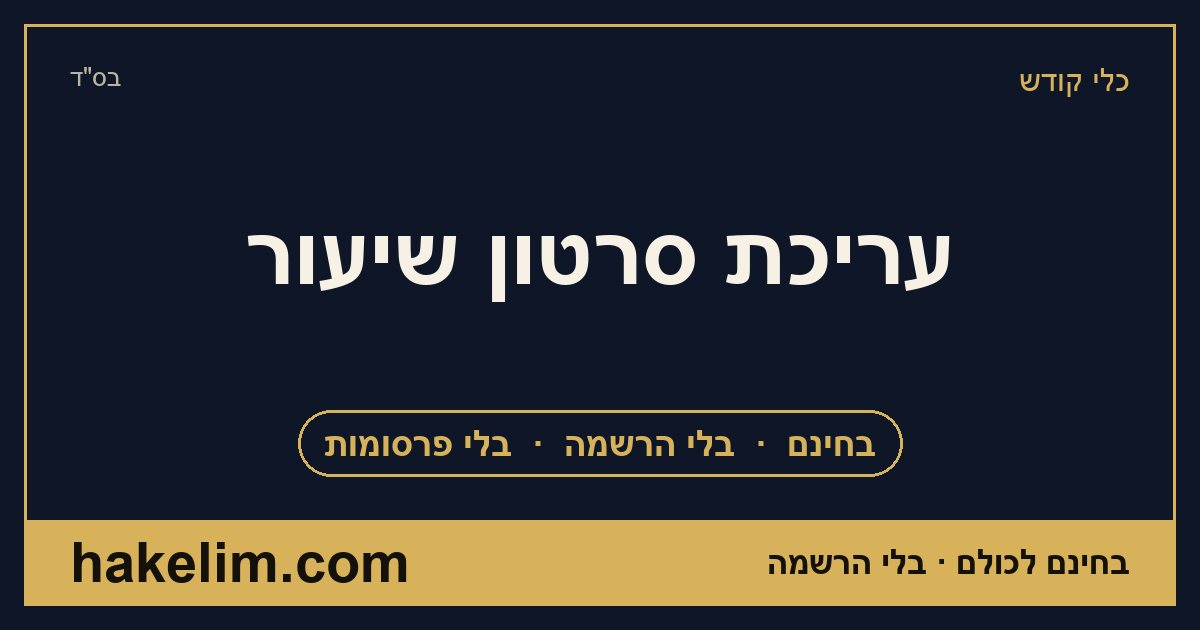
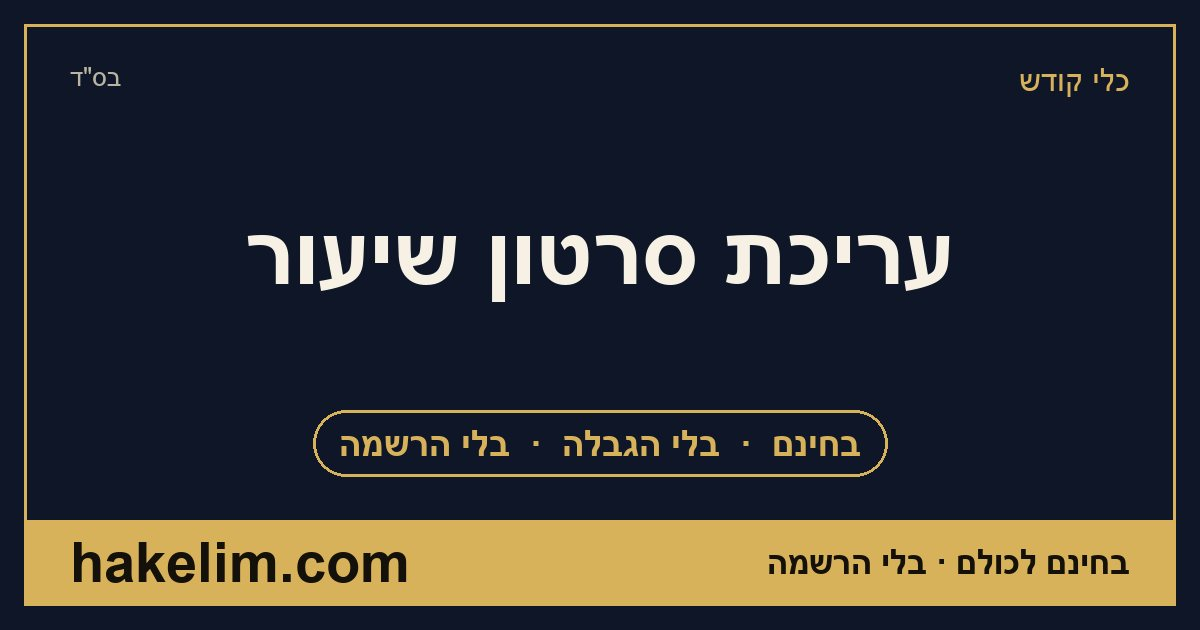
תמלול בלי הגבלה: לחיצה אחת "להמשיך לתמלל" אחרי 60 דקות, וכתיבה לגילעד באהבה
- tamlul + video-shiur: הנוסח "בחינם ובלי הגבלה" במקום "60 דקות בחודש"; בקופסה: להמשיך / ווטסאפ / שותף
- tamlul.js: אחרי הלחיצה ההקלטה שנעצרה ממשיכה מיד
- יצאו מ-CHESED_PARTNER, ולכן כרטיס השיתוף והתיאור מקבלים "בלי הגבלה"

Changed region(s): [[0.4625, 0.6333, 0.7708, 0.754], [0.2467, 0.6333, 0.4317, 0.754]]

diff --git a/kelim/tamlul/index.html b/kelim/tamlul/index.html
@@ -4,14 +4,14 @@
 <meta charset="utf-8"><script>(function(){var N="https://hakelim.com",O="gilad-rachamim.github.io",L=location,k;function go(){try{var d={},n=0,ks=[],i,v,e;for(i=0;i<localStorage.length;i++)ks.push(localStorage.key(i));ks.sort(function(a,b){return localStorage.getItem(a).length-localStorage.getItem(b).length});for(i=0;i<ks.length;i++){k=ks[i];v=localStorage.getItem(k);e=encodeURIComponent(k).length+encodeURIComponent(v).length+12;if(n+e>1400000)continue;d[k]=v;n+=e}L.replace(N+L.pathname+L.search+(ks.length?"#__mig="+encodeURIComponent(JSON.stringify({d:d,h:L.hash})):L.hash))}catch(x){L.replace(N+L.pathname+L.search+L.hash)}}try{if(L.hostname===O){var im=new Image(),t=setTimeout(function(){im.onload=null},5000);im.onload=function(){clearTimeout(t);go()};im.src=N+"/assets/mig-ready.png?p="+Date.now()}else if(L.hash.indexOf("#__mig=")===0){var o=JSON.parse(decodeURIComponent(L.hash.slice(7)));for(k in o.d)if(localStorage.getItem(k)===null)localStorage.setItem(k,o.d[k]);history.replaceState(null,"",L.pathname+L.search+(o.h||""))}}catch(x){}})();</script>
 <meta name="viewport" content="width=device-width, initial-scale=1">
 <title>תמלול בעברית בחינם: הקלטה, הודעה קולית או סרטון לטקסט, מהטלפון | הכלים של גילעד רחמים</title>
-<meta name="description" content="תמלול אוטומטי בעברית, בחינם: מעלים הקלטה, הודעה קולית מהווטסאפ או סרטון, או מקליטים ישר בדף, ומקבלים טקסט להעתקה, לוורד, ל-PDF או לווטסאפ. 60 דקות בחודש בחינם. לנכי צה״ל ללא הגבלה.">
+<meta name="description" content="תמלול אוטומטי בעברית, בחינם: מעלים הקלטה, הודעה קולית מהווטסאפ או סרטון, או מקליטים ישר בדף, ומקבלים טקסט להעתקה, לוורד, ל-PDF או לווטסאפ. בחינם ובלי הגבלה, לכל אחד.">
 <link rel="canonical" href="https://hakelim.com/kelim/tamlul/">
 
 <meta property="og:type" content="website">
 <meta property="og:locale" content="he_IL">
 <meta property="og:site_name" content="מיזם הכלים של גילעד רחמים">
 <meta property="og:title" content="תמלול בעברית מהטלפון, בחינם">
-<meta property="og:description" content="בחינם ובלי הרשמה. תמלול אוטומטי בעברית, בחינם: מעלים הקלטה, הודעה קולית מהווטסאפ או סרטון, או מקליטים ישר בדף, ומקבלים טקסט להעתקה, לוורד, ל-PDF או לווטסאפ. 60 דקות בחודש בחינם. לנכי צה״ל ללא הגבלה.">
+<meta property="og:description" content="בחינם, בלי הגבלה ובלי הרשמה. תמלול אוטומטי בעברית, בחינם: מעלים הקלטה, הודעה קולית מהווטסאפ או סרטון, או מקליטים ישר בדף, ומקבלים טקסט להעתקה, לוורד, ל-PDF או לווטסאפ. בחינם ובלי הגבלה, לכל אחד.">
 <meta property="og:image" content="https://hakelim.com/assets/og/kelim-tamlul.jpg?v=4">
 <meta property="og:url" content="https://hakelim.com/kelim/tamlul/">
 <meta name="twitter:card" content="summary_large_image">
@@ -26,7 +26,7 @@
 <script>window.dataLayer=window.dataLayer||[];function gtag(){dataLayer.push(arguments);}gtag('js',new Date());gtag('config','G-4QR4583VST');</script>
 <script src="/assets/track.js?v=963b507e" defer></script>
 <script src="/assets/kishur.js?v=e3484271" defer></script>
-<style>.tl-pick{display:grid;gap:.7rem}.tl-pick label.up{display:block;text-align:center;padding:1.3rem 1rem;border:2px dashed var(--gold-soft);border-radius:16px;cursor:pointer;color:var(--cream);font-size:1.15rem}.tl-pick label.up small{display:block;color:var(--muted);font-size:.95rem;margin-top:.3rem}.tl-pick input[type=file]{position:absolute;width:1px;height:1px;opacity:0}#tl-rec.on{background:#b4443c;border-color:#b4443c;color:#fff}#tl-status{margin-top:1rem;padding:.9rem 1rem;border-radius:12px;background:rgba(255,255,255,.04);border:1px solid var(--line);color:var(--cream)}.spin{display:inline-block;width:1rem;height:1rem;border:2px solid var(--gold);border-top-color:transparent;border-radius:50%;animation:sp 1s linear infinite;vertical-align:-2px}@keyframes sp{to{transform:rotate(360deg)}}#tl-text{margin-top:.8rem;max-height:60vh;overflow:auto;padding:1rem;border-radius:12px;background:rgba(0,0,0,.22);border:1px solid var(--line);font-size:1.08rem;line-height:1.8;color:var(--cream)}#tl-text p+p{margin-top:.8rem}.tl-acts{display:flex;flex-wrap:wrap;gap:.5rem;margin-top:.9rem}#tl-quota{color:var(--body);font-size:1rem;text-align:center;margin-top:.8rem}#tl-limit{margin-top:1rem}@media print{body *{visibility:hidden}#tl-print,#tl-print *{visibility:visible}#tl-print{position:absolute;inset:0;color:#000}#tl-text{max-height:none;overflow:visible;background:none;border:0;color:#000}.tl-acts,.tl-stamps-row{display:none}}</style><link rel="stylesheet" href="/assets/seo-txt.css?v=821664ee"><script type="application/ld+json">{"@context": "https://schema.org", "@type": "FAQPage", "mainEntity": [{"@type": "Question", "name": "התמלול בחינם?", "acceptedAnswer": {"@type": "Answer", "text": "כן. כל אחד מקבל 60 דקות תמלול בחודש בחינם. נכי צה\"ל ומי שצריך את זה בגלל פגיעה מקבלים ללא הגבלה."}}, {"@type": "Question", "name": "איך מתמללים הודעה קולית מהווטסאפ?", "acceptedAnswer": {"@type": "Answer", "text": "לוחצים לחיצה ארוכה על ההודעה בווטסאפ, בוחרים שיתוף ושומרים לקבצים. אחר כך בוחרים את הקובץ בדף התמלול."}}, {"@type": "Question", "name": "אילו שפות אפשר לתמלל?", "acceptedAnswer": {"@type": "Answer", "text": "עברית, אנגלית, ערבית, רוסית וצרפתית. אפשר גם לתת לכלי לזהות את השפה לבד."}}, {"@type": "Question", "name": "ההקלטה שלי נשמרת אצלכם?", "acceptedAnswer": {"@type": "Answer", "text": "לא. הקובץ עובר לשרת התמלול רק כדי להפוך לטקסט, ולא נשמר. הטקסט נשאר רק בטלפון שלכם."}}]}</script><script type="application/ld+json">{"@context": "https://schema.org", "@type": "BreadcrumbList", "itemListElement": [{"@type": "ListItem", "position": 1, "name": "הכלים של גילעד רחמים", "item": "https://hakelim.com/kelim/"}, {"@type": "ListItem", "position": 2, "name": "תמלול", "item": "https://hakelim.com/kelim/tamlul/"}]}</script><script type="application/ld+json">{"@context": "https://schema.org", "@type": "WebApplication", "name": "תמלול בעברית, מהטלפון", "description": "תמלול אוטומטי בעברית, בחינם: מעלים הקלטה, הודעה קולית מהווטסאפ או סרטון, או מקליטים ישר בדף, ומקבלים טקסט להעתקה, לוורד, ל-PDF או לווטסאפ. 60 דקות בחודש בחינם. לנכי צה״ל ללא הגבלה.", "url": "https://hakelim.com/kelim/tamlul/", "inLanguage": "he", "applicationCategory": "UtilitiesApplication", "operatingSystem": "Any", "browserRequirements": "דפדפן רגיל בטלפון או במחשב, בלי התקנה.", "isAccessibleForFree": true, "offers": {"@type": "Offer", "price": "0", "priceCurrency": "ILS"}, "author": {"@type": "Person", "name": "גילעד רחמים אביעד", "url": "https://hakelim.com/kelim/#mi"}, "publisher": {"@type": "Person", "name": "גילעד רחמים אביעד", "url": "https://hakelim.com/kelim/#mi"}, "isPartOf": {"@type": "WebSite", "name": "הכלים של גילעד רחמים", "url": "https://hakelim.com/kelim/"}}</script>
+<style>.tl-pick{display:grid;gap:.7rem}.tl-pick label.up{display:block;text-align:center;padding:1.3rem 1rem;border:2px dashed var(--gold-soft);border-radius:16px;cursor:pointer;color:var(--cream);font-size:1.15rem}.tl-pick label.up small{display:block;color:var(--muted);font-size:.95rem;margin-top:.3rem}.tl-pick input[type=file]{position:absolute;width:1px;height:1px;opacity:0}#tl-rec.on{background:#b4443c;border-color:#b4443c;color:#fff}#tl-status{margin-top:1rem;padding:.9rem 1rem;border-radius:12px;background:rgba(255,255,255,.04);border:1px solid var(--line);color:var(--cream)}.spin{display:inline-block;width:1rem;height:1rem;border:2px solid var(--gold);border-top-color:transparent;border-radius:50%;animation:sp 1s linear infinite;vertical-align:-2px}@keyframes sp{to{transform:rotate(360deg)}}#tl-text{margin-top:.8rem;max-height:60vh;overflow:auto;padding:1rem;border-radius:12px;background:rgba(0,0,0,.22);border:1px solid var(--line);font-size:1.08rem;line-height:1.8;color:var(--cream)}#tl-text p+p{margin-top:.8rem}.tl-acts{display:flex;flex-wrap:wrap;gap:.5rem;margin-top:.9rem}#tl-quota{color:var(--body);font-size:1rem;text-align:center;margin-top:.8rem}#tl-limit{margin-top:1rem}@media print{body *{visibility:hidden}#tl-print,#tl-print *{visibility:visible}#tl-print{position:absolute;inset:0;color:#000}#tl-text{max-height:none;overflow:visible;background:none;border:0;color:#000}.tl-acts,.tl-stamps-row{display:none}}</style><link rel="stylesheet" href="/assets/seo-txt.css?v=821664ee"><script type="application/ld+json">{"@context": "https://schema.org", "@type": "FAQPage", "mainEntity": [{"@type": "Question", "name": "התמלול בחינם?", "acceptedAnswer": {"@type": "Answer", "text": "כן. כל אחד מקבל 60 דקות תמלול בחודש בחינם. נכי צה\"ל ומי שצריך את זה בגלל פגיעה מקבלים ללא הגבלה."}}, {"@type": "Question", "name": "איך מתמללים הודעה קולית מהווטסאפ?", "acceptedAnswer": {"@type": "Answer", "text": "לוחצים לחיצה ארוכה על ההודעה בווטסאפ, בוחרים שיתוף ושומרים לקבצים. אחר כך בוחרים את הקובץ בדף התמלול."}}, {"@type": "Question", "name": "אילו שפות אפשר לתמלל?", "acceptedAnswer": {"@type": "Answer", "text": "עברית, אנגלית, ערבית, רוסית וצרפתית. אפשר גם לתת לכלי לזהות את השפה לבד."}}, {"@type": "Question", "name": "ההקלטה שלי נשמרת אצלכם?", "acceptedAnswer": {"@type": "Answer", "text": "לא. הקובץ עובר לשרת התמלול רק כדי להפוך לטקסט, ולא נשמר. הטקסט נשאר רק בטלפון שלכם."}}]}</script><script type="application/ld+json">{"@context": "https://schema.org", "@type": "BreadcrumbList", "itemListElement": [{"@type": "ListItem", "position": 1, "name": "הכלים של גילעד רחמים", "item": "https://hakelim.com/kelim/"}, {"@type": "ListItem", "position": 2, "name": "תמלול", "item": "https://hakelim.com/kelim/tamlul/"}]}</script><script type="application/ld+json">{"@context": "https://schema.org", "@type": "WebApplication", "name": "תמלול בעברית, מהטלפון", "description": "תמלול אוטומטי בעברית, בחינם: מעלים הקלטה, הודעה קולית מהווטסאפ או סרטון, או מקליטים ישר בדף, ומקבלים טקסט להעתקה, לוורד, ל-PDF או לווטסאפ. בחינם ובלי הגבלה, לכל אחד.", "url": "https://hakelim.com/kelim/tamlul/", "inLanguage": "he", "applicationCategory": "UtilitiesApplication", "operatingSystem": "Any", "browserRequirements": "דפדפן רגיל בטלפון או במחשב, בלי התקנה.", "isAccessibleForFree": true, "offers": {"@type": "Offer", "price": "0", "priceCurrency": "ILS"}, "author": {"@type": "Person", "name": "גילעד רחמים אביעד", "url": "https://hakelim.com/kelim/#mi"}, "publisher": {"@type": "Person", "name": "גילעד רחמים אביעד", "url": "https://hakelim.com/kelim/#mi"}, "isPartOf": {"@type": "WebSite", "name": "הכלים של גילעד רחמים", "url": "https://hakelim.com/kelim/"}}</script>
 </head>
 <body class="site-kelim " data-site="kelim" data-tool="tamlul" data-home="/kelim/">
 <svg xmlns="http://www.w3.org/2000/svg" style="display:none">
@@ -62,7 +62,7 @@
   </div>
 </header>
 <nav class="crumbs" aria-label="פירורי לחם"><a href="/kelim/">הכלים של גילעד רחמים</a><span>תמלול</span></nav>
-<div class="chesed no-print" role="note"><p class="chesed-t"><b>✓ בחינם</b><b>✓ ללא הגבלה</b><b>✓ בלי פרסומות</b></p><p class="chesed-s">לכולם מכסה בחינם, ולשותפים במיזם ללא הגבלה. בלי פרסומות, מתוך רצון לעשות חסד.</p><details class="chesed-p"><summary>🤝 יש לי קוד שותף</summary><label>קוד השותף שקיבלתי <input type="text" inputmode="numeric" dir="ltr" maxlength="12" autocomplete="off" placeholder="123-45678" data-partner-code></label><span class="chesed-ok" data-partner-ok hidden>✓ נשמר. תודה שאתם שותפים ❤ ללא הגבלה בכל הכלים.</span><span>הקוד נשמר רק בטלפון הזה. <a class="gold" href="/kelim/#litmoch">איך נהיים שותפים?</a></span></details></div>
+<div class="chesed no-print" role="note"><p class="chesed-t"><b>✓ בחינם</b><b>✓ ללא הגבלה</b><b>✓ בלי פרסומות</b></p><p class="chesed-s">הרבה כלים כאלה ברשת מוגבלים ומלאים בפרסומות. כאן לא, מתוך רצון לעשות חסד.</p></div>
 <main id="main">
 <header class="k-hero">
   <h1>תמלול בעברית, מהטלפון</h1>
@@ -84,10 +84,9 @@
   <div id="tl-status" role="status" aria-live="polite" hidden></div>
 
   <div class="res" id="tl-limit" hidden>
-    <h3>נגמרו הדקות החינמיות של החודש</h3>
-    <p class="note">כל אחד מקבל 60 דקות בחודש בחינם. מה שמעבר עולה למיזם כסף אמיתי על שרת התמלול. מי שיכול להיות שותף (18 או 36 ש"ח בחודש) מחזיק את זה גם בשביל אחרים, ומקבל ללא הגבלה.</p>
-    <div class="tl-acts"><a class="btn btn-gold btn-sm" href="/kelim/#litmoch" data-donate="tamlul">להיות שותף</a><a class="btn btn-line btn-sm" href="https://wa.me/972584049049?text=%D7%A9%D7%9C%D7%95%D7%9D%20%D7%92%D7%99%D7%9C%D7%A2%D7%93%2C%20%D7%90%D7%A9%D7%9E%D7%97%20%D7%9C%D7%A2%D7%95%D7%93%2030%20%D7%93%D7%A7%D7%95%D7%AA%20%D7%AA%D7%9E%D7%9C%D7%95%D7%9C">לבקש עוד 30 דקות במתנה</a></div>
-    <p class="note" style="margin-top:.8rem"><a class="gold" href="#" data-unlimited>נכי צה"ל, ומי שצריך את זה בגלל פגיעה: ללא הגבלה, בלי שאלות. לחצו כאן.</a></p>
+    <h3>עברתם 60 דקות תמלול החודש 💛</h3>
+    <p class="note">התמלול בחינם ובלי הגבלה. לחצו להמשיך ותמללו כמה שצריך. מי שמתמלל הרבה, אשמח שיכתוב לי באהבה. ומי שיכול להיות שותף, מחזיק את זה גם בשביל אחרים.</p>
+    <div class="tl-acts"><a class="btn btn-gold btn-sm" href="#" data-unlimited>להמשיך לתמלל</a><a class="btn btn-line btn-sm" href="https://wa.me/972584049049?text=%D7%A9%D7%9C%D7%95%D7%9D%20%D7%92%D7%99%D7%9C%D7%A2%D7%93%2C%20%D7%90%D7%A0%D7%99%20%D7%9E%D7%A9%D7%AA%D7%9E%D7%A9%20%D7%94%D7%A8%D7%91%D7%94%20%D7%91%D7%AA%D7%9E%D7%9C%D7%95%D7%9C%20%D7%95%D7%A8%D7%A6%D7%99%D7%AA%D7%99%20%D7%9C%D7%A1%D7%A4%D7%A8%20%D7%9C%D7%9A">לכתוב לגילעד בווטסאפ</a><a class="btn btn-line btn-sm" href="/kelim/#litmoch" data-donate="tamlul">להיות שותף</a></div>
   </div>
 
   <div id="tl-print">
@@ -132,11 +131,11 @@
   <h3>תמלול הודעה קולית מהווטסאפ</h3>
   <p>בווטסאפ לוחצים לחיצה ארוכה על ההודעה, בוחרים שיתוף ושומרים לקבצים. אחר כך בוחרים אותה כאן. התמלול אוטומטי, ולפעמים יש בו טעויות קטנות, ולכן כדאי לעבור עליו לפני ששולחים.</p>
   <h3>כמה זה עולה, ומה עם הפרטיות</h3>
-  <p>כל אחד מקבל 60 דקות תמלול בחודש בחינם. מה שמעבר לזה עולה למיזם כסף על שרת התמלול, ולכן מי שרוצה יכול להיות שותף ולקבל ללא הגבלה. נכי צה"ל, ומי שצריך את זה בגלל פגיעה, מקבלים ללא הגבלה. הקובץ עובר לשרת התמלול רק כדי להפוך לטקסט, ולא נשמר שם. הטקסט נשאר אצלכם בטלפון.</p>
+  <p>התמלול בחינם ובלי הגבלה, לכל אחד. מי שמתמלל הרבה, אשמח שיכתוב לי באהבה בווטסאפ. כל דקה עולה למיזם כסף על שרת התמלול, ולכן מי שיכול להיות שותף מחזיק את זה גם בשביל אחרים. הקובץ עובר לשרת התמלול רק כדי להפוך לטקסט, ולא נשמר שם. הטקסט נשאר אצלכם בטלפון.</p>
 </section>
 <section class="k-sec seo-faq" aria-labelledby="seo-faq-h">
   <h2 id="seo-faq-h">שאלות ותשובות</h2>
-  <details><summary>התמלול בחינם?</summary><p>כן. כל אחד מקבל 60 דקות תמלול בחודש בחינם. נכי צה"ל ומי שצריך את זה בגלל פגיעה מקבלים ללא הגבלה.</p></details>
+  <details><summary>התמלול בחינם?</summary><p>כן, בחינם ובלי הגבלה. מי שמתמלל הרבה מוזמן לכתוב לי באהבה.</p></details>
   <details><summary>איך מתמללים הודעה קולית מהווטסאפ?</summary><p>לוחצים לחיצה ארוכה על ההודעה בווטסאפ, בוחרים שיתוף ושומרים לקבצים. אחר כך בוחרים את הקובץ בדף התמלול.</p></details>
   <details><summary>אילו שפות אפשר לתמלל?</summary><p>עברית, אנגלית, ערבית, רוסית וצרפתית. אפשר גם לתת לכלי לזהות את השפה לבד.</p></details>
   <details><summary>ההקלטה שלי נשמרת אצלכם?</summary><p>לא. הקובץ עובר לשרת התמלול רק כדי להפוך לטקסט, ולא נשמר. הטקסט נשאר רק בטלפון שלכם.</p></details>
@@ -207,6 +206,6 @@
   <button class="x" type="button" data-install-close aria-label="סגירה">×</button>
 </div>
 <script src="/assets/kelim.js?v=394730c7" defer></script>
-<script src="/assets/tamlul.js?v=d06bdf5f" defer></script>
+<script src="/assets/tamlul.js?v=418ab7cf" defer></script>
 </body>
 </html>

diff --git a/src/pages/kelim/tamlul/index.html b/src/pages/kelim/tamlul/index.html
@@ -3,7 +3,7 @@
   "nav": "tamlul",
   "tool": "tamlul",
   "title": "תמלול בעברית בחינם: הקלטה, הודעה קולית או סרטון לטקסט, מהטלפון | הכלים של גילעד רחמים",
-  "description": "תמלול אוטומטי בעברית, בחינם: מעלים הקלטה, הודעה קולית מהווטסאפ או סרטון, או מקליטים ישר בדף, ומקבלים טקסט להעתקה, לוורד, ל-PDF או לווטסאפ. 60 דקות בחודש בחינם. לנכי צה\"ל ללא הגבלה.",
+  "description": "תמלול אוטומטי בעברית, בחינם: מעלים הקלטה, הודעה קולית מהווטסאפ או סרטון, או מקליטים ישר בדף, ומקבלים טקסט להעתקה, לוורד, ל-PDF או לווטסאפ. בחינם ובלי הגבלה, לכל אחד.",
   "og_title": "תמלול בעברית מהטלפון, בחינם",
   "priority": "0.9",
   "crumbs": [["תמלול", null]],
@@ -30,10 +30,9 @@
   <div id="tl-status" role="status" aria-live="polite" hidden></div>
 
   <div class="res" id="tl-limit" hidden>
-    <h3>נגמרו הדקות החינמיות של החודש</h3>
-    <p class="note">כל אחד מקבל 60 דקות בחודש בחינם. מה שמעבר עולה למיזם כסף אמיתי על שרת התמלול. מי שיכול להיות שותף (18 או 36 ש"ח בחודש) מחזיק את זה גם בשביל אחרים, ומקבל ללא הגבלה.</p>
-    <div class="tl-acts"><a class="btn btn-gold btn-sm" href="/kelim/#litmoch" data-donate="tamlul">להיות שותף</a><a class="btn btn-line btn-sm" href="https://wa.me/972584049049?text=%D7%A9%D7%9C%D7%95%D7%9D%20%D7%92%D7%99%D7%9C%D7%A2%D7%93%2C%20%D7%90%D7%A9%D7%9E%D7%97%20%D7%9C%D7%A2%D7%95%D7%93%2030%20%D7%93%D7%A7%D7%95%D7%AA%20%D7%AA%D7%9E%D7%9C%D7%95%D7%9C">לבקש עוד 30 דקות במתנה</a></div>
-    <p class="note" style="margin-top:.8rem"><a class="gold" href="#" data-unlimited>נכי צה"ל, ומי שצריך את זה בגלל פגיעה: ללא הגבלה, בלי שאלות. לחצו כאן.</a></p>
+    <h3>עברתם 60 דקות תמלול החודש 💛</h3>
+    <p class="note">התמלול בחינם ובלי הגבלה. לחצו להמשיך ותמללו כמה שצריך. מי שמתמלל הרבה, אשמח שיכתוב לי באהבה. ומי שיכול להיות שותף, מחזיק את זה גם בשביל אחרים.</p>
+    <div class="tl-acts"><a class="btn btn-gold btn-sm" href="#" data-unlimited>להמשיך לתמלל</a><a class="btn btn-line btn-sm" href="https://wa.me/972584049049?text=%D7%A9%D7%9C%D7%95%D7%9D%20%D7%92%D7%99%D7%9C%D7%A2%D7%93%2C%20%D7%90%D7%A0%D7%99%20%D7%9E%D7%A9%D7%AA%D7%9E%D7%A9%20%D7%94%D7%A8%D7%91%D7%94%20%D7%91%D7%AA%D7%9E%D7%9C%D7%95%D7%9C%20%D7%95%D7%A8%D7%A6%D7%99%D7%AA%D7%99%20%D7%9C%D7%A1%D7%A4%D7%A8%20%D7%9C%D7%9A">לכתוב לגילעד בווטסאפ</a><a class="btn btn-line btn-sm" href="/kelim/#litmoch" data-donate="tamlul">להיות שותף</a></div>
   </div>
 
   <div id="tl-print">
@@ -78,11 +77,11 @@
   <h3>תמלול הודעה קולית מהווטסאפ</h3>
   <p>בווטסאפ לוחצים לחיצה ארוכה על ההודעה, בוחרים שיתוף ושומרים לקבצים. אחר כך בוחרים אותה כאן. התמלול אוטומטי, ולפעמים יש בו טעויות קטנות, ולכן כדאי לעבור עליו לפני ששולחים.</p>
   <h3>כמה זה עולה, ומה עם הפרטיות</h3>
-  <p>כל אחד מקבל 60 דקות תמלול בחודש בחינם. מה שמעבר לזה עולה למיזם כסף על שרת התמלול, ולכן מי שרוצה יכול להיות שותף ולקבל ללא הגבלה. נכי צה"ל, ומי שצריך את זה בגלל פגיעה, מקבלים ללא הגבלה. הקובץ עובר לשרת התמלול רק כדי להפוך לטקסט, ולא נשמר שם. הטקסט נשאר אצלכם בטלפון.</p>
+  <p>התמלול בחינם ובלי הגבלה, לכל אחד. מי שמתמלל הרבה, אשמח שיכתוב לי באהבה בווטסאפ. כל דקה עולה למיזם כסף על שרת התמלול, ולכן מי שיכול להיות שותף מחזיק את זה גם בשביל אחרים. הקובץ עובר לשרת התמלול רק כדי להפוך לטקסט, ולא נשמר שם. הטקסט נשאר אצלכם בטלפון.</p>
 </section>
 <section class="k-sec seo-faq" aria-labelledby="seo-faq-h">
   <h2 id="seo-faq-h">שאלות ותשובות</h2>
-  <details><summary>התמלול בחינם?</summary><p>כן. כל אחד מקבל 60 דקות תמלול בחודש בחינם. נכי צה"ל ומי שצריך את זה בגלל פגיעה מקבלים ללא הגבלה.</p></details>
+  <details><summary>התמלול בחינם?</summary><p>כן, בחינם ובלי הגבלה. מי שמתמלל הרבה מוזמן לכתוב לי באהבה.</p></details>
   <details><summary>איך מתמללים הודעה קולית מהווטסאפ?</summary><p>לוחצים לחיצה ארוכה על ההודעה בווטסאפ, בוחרים שיתוף ושומרים לקבצים. אחר כך בוחרים את הקובץ בדף התמלול.</p></details>
   <details><summary>אילו שפות אפשר לתמלל?</summary><p>עברית, אנגלית, ערבית, רוסית וצרפתית. אפשר גם לתת לכלי לזהות את השפה לבד.</p></details>
   <details><summary>ההקלטה שלי נשמרת אצלכם?</summary><p>לא. הקובץ עובר לשרת התמלול רק כדי להפוך לטקסט, ולא נשמר. הטקסט נשאר רק בטלפון שלכם.</p></details>

diff --git a/kodesh/video-shiur/index.html b/kodesh/video-shiur/index.html
@@ -11,7 +11,7 @@
 <meta property="og:locale" content="he_IL">
 <meta property="og:site_name" content="כלי קודש">
 <meta property="og:title" content="עריכת סרטון שיעור – סטטוסים, כתוביות ושורטים">
-<meta property="og:description" content="בחינם ובלי הרשמה. מעלים סרטון של שיעור ומקבלים: חלקים של 30 או 60 שניות לסטטוס עם מספור, כתוביות בעברית שזזות עם הדיבור (וקובץ SRT), ושורטים אנכיים עם כותרת מתוך שיעור ארוך. הכול בדפדפן, בחינם.">
+<meta property="og:description" content="בחינם, בלי הגבלה ובלי הרשמה. מעלים סרטון של שיעור ומקבלים: חלקים של 30 או 60 שניות לסטטוס עם מספור, כתוביות בעברית שזזות עם הדיבור (וקובץ SRT), ושורטים אנכיים עם כותרת מתוך שיעור ארוך. הכול בדפדפן, בחינם.">
 <meta property="og:image" content="https://hakelim.com/assets/og/kodesh-video-shiur.jpg?v=4">
 <meta property="og:url" content="https://hakelim.com/kodesh/video-shiur/">
 <meta name="twitter:card" content="summary_large_image">
@@ -62,7 +62,7 @@
   </div>
 </header>
 <nav class="crumbs" aria-label="פירורי לחם"><a href="/kodesh/">כלי קודש</a><span>עריכת סרטון שיעור</span></nav>
-<div class="chesed no-print" role="note"><p class="chesed-t"><b>✓ בחינם</b><b>✓ ללא הגבלה</b><b>✓ בלי פרסומות</b></p><p class="chesed-s">לכולם מכסה בחינם, ולשותפים במיזם ללא הגבלה. בלי פרסומות, מתוך רצון לעשות חסד.</p><details class="chesed-p"><summary>🤝 יש לי קוד שותף</summary><label>קוד השותף שקיבלתי <input type="text" inputmode="numeric" dir="ltr" maxlength="12" autocomplete="off" placeholder="123-45678" data-partner-code></label><span class="chesed-ok" data-partner-ok hidden>✓ נשמר. תודה שאתם שותפים ❤ ללא הגבלה בכל הכלים.</span><span>הקוד נשמר רק בטלפון הזה. <a class="gold" href="/kelim/#litmoch">איך נהיים שותפים?</a></span></details></div>
+<div class="chesed no-print" role="note"><p class="chesed-t"><b>✓ בחינם</b><b>✓ ללא הגבלה</b><b>✓ בלי פרסומות</b></p><p class="chesed-s">הרבה כלים כאלה ברשת מוגבלים ומלאים בפרסומות. כאן לא, מתוך רצון לעשות חסד.</p></div>
 <main id="main">
 <header class="k-hero">
   <h1>עריכת סרטון שיעור</h1>
@@ -173,14 +173,14 @@
   <label class="vs-chk vs-st"><input type="checkbox" id="vs-fast" checked> יצירה מהירה, בלי לחכות שהסרטון יתנגן עד הסוף (בכרום במחשב ובאנדרואיד)</label>
   <p class="vs-st" id="vs-status" aria-live="polite" hidden></p>
   <p class="vs-st" id="vs-quota"></p>
-  <p class="vs-st" id="vs-limit" hidden>נגמרו דקות התמלול החינמיות של החודש. נכי צה"ל ומי שצריך בגלל פגיעה: <a class="gold" href="#" data-unlimited>ללא הגבלה</a>.</p>
+  <p class="vs-st" id="vs-limit" hidden>עברתם 60 דקות תמלול החודש. התמלול בלי הגבלה: <a class="gold" href="#" data-unlimited>לחצו להמשיך</a>. מי שמתמלל הרבה, אשמח שיכתוב לי באהבה.</p>
   <div id="vs-stage" hidden><canvas id="vs-cv" width="720" height="1280" role="img" aria-label="תצוגה של הסרטון"></canvas></div>
   <progress id="vs-prog" max="1" value="0" hidden></progress>
   <video id="vs-src" playsinline preload="auto" hidden></video>
   <ul class="vs-out" id="vs-out" aria-label="הסרטונים שנוצרו"></ul>
 
   <p class="disclaimer">הסרטון נוצר בדפדפן, ולא עולה לשום מקום. בכרום במחשב ובאנדרואיד זה מהיר: חלק של דקה לוקח כמה שניות. בדפדפן אחר, או בסרטון ארוך מעשר דקות, זה בזמן אמת: חלק של דקה לוקח דקה. כדאי להשאיר את הדף פתוח עד הסוף. בכרום מעודכן ובאייפון הסרטונים יוצאים MP4, שמתאים לווטסאפ.</p>
-  <p class="disclaimer">התמלול: הקול נשלח לשרת תמלול בעברית (מודל של ivrit.ai), ולא נשמר אצלנו. 60 דקות בחודש בחינם, משותפות עם <a class="gold" href="/kelim/tamlul/">תמלול שיעור</a>. הכתוביות מגיעות מתמלול אוטומטי, ולכן כדאי לעבור עליהן לפני שמפרסמים.</p>
+  <p class="disclaimer">התמלול: הקול נשלח לשרת תמלול בעברית (מודל של ivrit.ai), ולא נשמר אצלנו. בחינם ובלי הגבלה, כמו <a class="gold" href="/kelim/tamlul/">תמלול שיעור</a>. הכתוביות מגיעות מתמלול אוטומטי, ולכן כדאי לעבור עליהן לפני שמפרסמים.</p>
   <p class="disclaimer">יש לכם שיעור כתוב בלי סרטון? <a class="gold" href="/kodesh/video/">משיעור כתוב לסרטון</a>. חלק מ<a class="gold" href="/kodesh/">כלי קודש</a>.</p>
 </div>
 <!--seo-txt-->
@@ -264,6 +264,6 @@
   <button class="x" type="button" data-install-close aria-label="סגירה">×</button>
 </div>
 <script src="/assets/kelim.js?v=394730c7" defer></script>
-<script src="/assets/video-shiur.js?v=09484196" defer></script>
+<script src="/assets/video-shiur.js?v=3a5ca144" defer></script>
 </body>
 </html>

diff --git a/kelim/sw.js b/kelim/sw.js
@@ -1,7 +1,7 @@
 // service worker של תת-אתר בהכלים של גילעד רחמים (נוצר ע"י build.py, לא לערוך את העותק בתיקיית האתר).
 // דפים: קודם רשת, ואם אין אינטרנט – מהשמור. קבצים קבועים (css/js/גופנים): קודם שמור.
 // בקשות לשרתים אחרים (התמלול, גוגל) לא נוגעים בהן.
-var CACHE = 'kelim-202611112342';
+var CACHE = 'kelim-202611112354';
 var PRECACHE = ["/kelim/avoda/", "/kelim/avoda/korot/", "/kelim/avoda/misrot/", "/kelim/avoda/reayon/", "/kelim/bakasha/", "/kelim/bakasha/sheli/", "/kelim/briut/", "/kelim/briut/madadim/", "/kelim/briut/rofe/", "/kelim/briut/trufot/", "/kelim/chashiva/avanim/", "/kelim/chashiva/blackjack/", "/kelim/chashiva/chidon/", "/kelim/chashiva/damka/", "/kelim/chashiva/", "/kelim/chashiva/kita/beit-sefer/", "/kelim/chashiva/kita/horim/", "/kelim/chashiva/kita/", "/kelim/chashiva/kita/more/", "/kelim/chashiva/mila/", "/kelim/chashiva/poker/", "/kelim/chashiva/reviiot/", "/kelim/chashiva/shachmat/", "/kelim/chashiva/shachor/", "/kelim/chashiva/shesh-besh/", "/kelim/chashiva/sudoku/", "/kelim/chashiva/tashchetz/", "/kelim/chashiva/yaniv/", "/kelim/eruim/hachana/", "/kelim/eruim/hazmana/bar-mitzva/", "/kelim/eruim/hazmana/bat-mitzva/", "/kelim/eruim/hazmana/chalake/", "/kelim/eruim/hazmana/chanukat-bayit/", "/kelim/eruim/hazmana/chatuna/", "/kelim/eruim/hazmana/china/", "/kelim/eruim/hazmana/erusin/", "/kelim/eruim/hazmana/", "/kelim/eruim/hazmana/m/", "/kelim/eruim/hazmana/sefer-torah/", "/kelim/eruim/hazmana/sheva-brachot/", "/kelim/eruim/hazmana/v/", "/kelim/eruim/hazmana/yom-huledet/", "/kelim/eruim/hoshava/", "/kelim/eruim/", "/kelim/eruim/ishurim/a/", "/kelim/eruim/ishurim/", "/kelim/eruim/tochnit/", "/kelim/hitkadmut/", "/kelim/", "/kelim/kehila/aliyot/", "/kelim/kehila/azkarot/", "/kelim/kehila/", "/kelim/kehila/trempim/", "/kelim/kehila/trempim/luz/", "/kelim/kehila/trempim/pratiut/", "/kelim/kehila/trumot/", "/kelim/kesharim/hodaot/", "/kelim/kesharim/", "/kelim/kesharim/ishurim/", "/kelim/kesharim/sidur/", "/kelim/kesharim/yomulda/", "/kelim/machshev/chadashot/", "/kelim/machshev/chadashot/moda/", "/kelim/machshev/fax/", "/kelim/machshev/gibui/", "/kelim/machshev/", "/kelim/machshev/kasher/", "/kelim/machshev/kav/", "/kelim/machshev/pdf/", "/kelim/machshev/sader/", "/kelim/machshev/sisma/", "/kelim/machshev/tmuna/", "/kelim/machshev/tzilumim/", "/kelim/machshev/video/", "/kelim/miluim/bait/", "/kelim/miluim/", "/kelim/miluim/tziyud/", "/kelim/miluim/yamim/", "/kelim/mishpacha/", "/kelim/mishpacha/kniyot/", "/kelim/mishpacha/shabbat/", "/kelim/mishpacha/toranut/", "/kelim/pratiut/", "/kelim/shikum/", "/kelim/shikum/tik/", "/kelim/shikum/vaada/", "/kelim/shikum/yoman/", "/kelim/shipurim/", "/kelim/shir/clip/", "/kelim/shir/haklata/", "/kelim/shir/", "/kelim/shir/karaoke/erev/", "/kelim/shir/karaoke/", "/kelim/shir/lachan/", "/kelim/shir/milim/", "/kelim/shir/ulpan/", "/kelim/tamlul/haalaa/", "/kelim/tamlul/", "/kelim/tichnut/base64/", "/kelim/tichnut/bits/", "/kelim/tichnut/emet/", "/kelim/tichnut/git/", "/kelim/tichnut/gpu/", "/kelim/tichnut/hagdarot/", "/kelim/tichnut/imun/", "/kelim/tichnut/", "/kelim/tichnut/json/", "/kelim/tichnut/maslul/", "/kelim/tichnut/mehirut/", "/kelim/tichnut/miunim/", "/kelim/tichnut/occupancy/", "/kelim/tichnut/pkudot/", "/kelim/tichnut/reayon-tech/", "/kelim/tichnut/regex/", "/kelim/tichnut/shgiot/", "/kelim/tichnut/sibuchiyut/", "/kelim/tichnut/simulator/", "/kelim/tichnut/sql/", "/kelim/tichnut/tzaad/", "/kelim/tichnut/vram/", "/kelim/tiyulim/hotzaot/", "/kelim/tiyulim/", "/kelim/tiyulim/maslul/", "/kelim/tiyulim/ochel/", "/kelim/tiyulim/tziyud/", "/kelim/tochen/chaye/", "/kelim/tochen/gdalim/", "/kelim/tochen/", "/kelim/tochen/matzeget/", "/kelim/tochen/moda/", "/kelim/tochen/shiron/", "/kelim/tochen/studio/", "/kelim/tochen/wa/", "/assets/site.css?v=39e81fea", "/assets/kelim.css?v=95dad8f3", "/assets/kelim.js?v=394730c7", "/assets/track.js?v=963b507e", "/assets/fonts/FrankRuhlLibre-wght.woff", "/assets/fonts/Assistant-wght.woff", "/assets/icon-kelim-192.png"];
 self.addEventListener('install', function (e) {
   e.waitUntil(caches.open(CACHE).then(function (c) { return c.addAll(PRECACHE); }).catch(function () {}).then(function () { return self.skipWaiting(); }));

diff --git a/assets/tamlul.js b/assets/tamlul.js
@@ -1,7 +1,7 @@
 // תמלול מהטלפון (T-1) – הכלים של גילעד רחמים.
 // הקובץ נשלח ל-Worker (gilad-hub), שמעביר לענן (RunPod, מודל עברית של ivrit.ai) ומחזיר טקסט. המפתח לא בדפדפן.
 // קובץ קטן נשלח כמו שהוא; קובץ גדול נחתך בטלפון לחלקים של 2.5 דקות (WAV 16kHz) שרצים במקביל.
-// מכסה: 60 דקות בחודש בטלפון (localStorage). נכי צה"ל ומי שצריך בגלל פגיעה: ללא הגבלה.
+// בלי הגבלה (גילעד 11.11.2026). אחרי 60 דקות בחודש: קופסה עם "להמשיך לתמלל" בלחיצה אחת + ווטסאפ באהבה.
 (function () {
   'use strict';
   var API = 'https://gilad-hub.gilad4049.workers.dev/tamlul';
@@ -17,7 +17,7 @@
   function save(o) { try { localStorage.setItem('kelim-tamlul', JSON.stringify(o)); } catch (e) {} }
   function showQuota() {
     var o = q();
-    quotaEl.innerHTML = o.free ? 'ללא הגבלה. בהצלחה 💛' : 'נשארו לכם החודש <b>' + Math.max(0, Math.round((FREE_SEC - o.used) / 60)) + '</b> דקות תמלול בחינם, מתוך 60.';
+    quotaEl.innerHTML = o.free ? 'ללא הגבלה. בהצלחה 💛' : 'תמלול בחינם ובלי הגבלה 💛';
   }
   root.addEventListener('click', function (e) {
     if (e.target.closest('[data-unlimited]')) {
@@ -25,6 +25,7 @@
       var o = q(); o.free = true; save(o); showQuota();
       $('tl-limit').hidden = true;
       if (window.kelimEv) window.kelimEv('tamlul_unlimited', {});
+      if (pending) { var pb = pending; pending = null; go(pb[0], pb[1]); }   // ממשיכים מיד את ההקלטה שנעצרה
     }
   });
   showQuota();
@@ -127,6 +128,7 @@
   function plain() { return Array.prototype.map.call(textEl.querySelectorAll('p'), function (p) { return p.textContent; }).join('\n\n'); }
   $('tl-stamps').addEventListener('change', render);
 
+  var pending = null;
   function go(blob, name) {
     var lang = $('tl-lang').value;
     fileIn.disabled = true; recBtn.disabled = true; outBox.hidden = true;
@@ -135,8 +137,9 @@
       var o = q();
       var need = isFinite(sec) ? sec : blob.size / 16000;
       if (!o.free && o.used + need > FREE_SEC) {
+        pending = [blob, name];
         $('tl-limit').hidden = false; $('tl-limit').scrollIntoView({ behavior: 'smooth', block: 'center' });
-        return fail('ההקלטה ארוכה מהדקות שנשארו לכם החודש.');
+        return fail('עברתם 60 דקות החודש. לחצו "להמשיך לתמלל" והתמלול ימשיך.');
       }
       var small = blob.size <= RAW_MAX && (!isFinite(sec) || sec <= 40 * 60);
       var prep = small ? Promise.resolve([{ off: 0, blob: blob }]) : (say('מכין את ההקלטה (קובץ גדול נחתך לחלקים)…', true), pieces(blob));

diff --git a/src/pages/kodesh/video-shiur/index.html b/src/pages/kodesh/video-shiur/index.html
@@ -119,14 +119,14 @@
   <label class="vs-chk vs-st"><input type="checkbox" id="vs-fast" checked> יצירה מהירה, בלי לחכות שהסרטון יתנגן עד הסוף (בכרום במחשב ובאנדרואיד)</label>
   <p class="vs-st" id="vs-status" aria-live="polite" hidden></p>
   <p class="vs-st" id="vs-quota"></p>
-  <p class="vs-st" id="vs-limit" hidden>נגמרו דקות התמלול החינמיות של החודש. נכי צה"ל ומי שצריך בגלל פגיעה: <a class="gold" href="#" data-unlimited>ללא הגבלה</a>.</p>
+  <p class="vs-st" id="vs-limit" hidden>עברתם 60 דקות תמלול החודש. התמלול בלי הגבלה: <a class="gold" href="#" data-unlimited>לחצו להמשיך</a>. מי שמתמלל הרבה, אשמח שיכתוב לי באהבה.</p>
   <div id="vs-stage" hidden><canvas id="vs-cv" width="720" height="1280" role="img" aria-label="תצוגה של הסרטון"></canvas></div>
   <progress id="vs-prog" max="1" value="0" hidden></progress>
   <video id="vs-src" playsinline preload="auto" hidden></video>
   <ul class="vs-out" id="vs-out" aria-label="הסרטונים שנוצרו"></ul>
 
   <p class="disclaimer">הסרטון נוצר בדפדפן, ולא עולה לשום מקום. בכרום במחשב ובאנדרואיד זה מהיר: חלק של דקה לוקח כמה שניות. בדפדפן אחר, או בסרטון ארוך מעשר דקות, זה בזמן אמת: חלק של דקה לוקח דקה. כדאי להשאיר את הדף פתוח עד הסוף. בכרום מעודכן ובאייפון הסרטונים יוצאים MP4, שמתאים לווטסאפ.</p>
-  <p class="disclaimer">התמלול: הקול נשלח לשרת תמלול בעברית (מודל של ivrit.ai), ולא נשמר אצלנו. 60 דקות בחודש בחינם, משותפות עם <a class="gold" href="/kelim/tamlul/">תמלול שיעור</a>. הכתוביות מגיעות מתמלול אוטומטי, ולכן כדאי לעבור עליהן לפני שמפרסמים.</p>
+  <p class="disclaimer">התמלול: הקול נשלח לשרת תמלול בעברית (מודל של ivrit.ai), ולא נשמר אצלנו. בחינם ובלי הגבלה, כמו <a class="gold" href="/kelim/tamlul/">תמלול שיעור</a>. הכתוביות מגיעות מתמלול אוטומטי, ולכן כדאי לעבור עליהן לפני שמפרסמים.</p>
   <p class="disclaimer">יש לכם שיעור כתוב בלי סרטון? <a class="gold" href="/kodesh/video/">משיעור כתוב לסרטון</a>. חלק מ<a class="gold" href="/kodesh/">כלי קודש</a>.</p>
 </div>
 <!--seo-txt-->

diff --git a/kodesh/sw.js b/kodesh/sw.js
@@ -1,7 +1,7 @@
 // service worker של תת-אתר בהכלים של גילעד רחמים (נוצר ע"י build.py, לא לערוך את העותק בתיקיית האתר).
 // דפים: קודם רשת, ואם אין אינטרנט – מהשמור. קבצים קבועים (css/js/גופנים): קודם שמור.
 // בקשות לשרתים אחרים (התמלול, גוגל) לא נוגעים בהן.
-var CACHE = 'kodesh-202611112342';
+var CACHE = 'kodesh-202611112354';
 var PRECACHE = ["/kodesh/album/", "/kodesh/alon/", "/kodesh/atar/", "/kodesh/azkara/", "/kodesh/beit-knesset/", "/kodesh/boker/", "/kodesh/brachon/", "/kodesh/brachot/", "/kodesh/brachot/yom-huledet/", "/kodesh/britot/", "/kodesh/britot-meyuchadot/", "/kodesh/chag-basis/", "/kodesh/chanuka/bracha/", "/kodesh/chanuka/chanukiya/", "/kodesh/chanuka/chesed/", "/kodesh/chanuka/chidon/", "/kodesh/chanuka/chufsha/", "/kodesh/chanuka/", "/kodesh/chanuka/kniyot/", "/kodesh/chanuka/matkonim/", "/kodesh/chanuka/nerot/", "/kodesh/chanuka/sevivon/", "/kodesh/chanuka/shiron/", "/kodesh/chanuka/sipurim/", "/kodesh/chanuka/tashbetz/", "/kodesh/chanuka/tshii/", "/kodesh/chanuka/tzviya/", "/kodesh/chayal/", "/kodesh/dapei-tefila/", "/kodesh/dvar-torah/", "/kodesh/gimatria/", "/kodesh/hachlama/", "/kodesh/hodaot/", "/kodesh/", "/kodesh/kartis/", "/kodesh/kartis-mohel/", "/kodesh/kibudim-yechida/", "/kodesh/luach/", "/kodesh/luach-shana/", "/kodesh/masach/", "/kodesh/mekorot/", "/kodesh/misheberach/", "/kodesh/mohalim/bli-atar/", "/kodesh/mohalim/", "/kodesh/olpan/", "/kodesh/olpan/kol/", "/kodesh/olpan/mara/", "/kodesh/olpan/prompter/", "/kodesh/olpan/reka/", "/kodesh/omer-avot/", "/kodesh/post/", "/kodesh/psak/", "/kodesh/qr/", "/kodesh/r/", "/kodesh/shavua/", "/kodesh/shiur/", "/kodesh/shut/", "/kodesh/simcha/", "/kodesh/sipur/", "/kodesh/sipurim/", "/kodesh/taarichim/", "/kodesh/tehillim/", "/kodesh/tehillim/shem/", "/kodesh/teuda/", "/kodesh/tofes-brit/", "/kodesh/tziyud/", "/kodesh/video/", "/kodesh/video-parasha/", "/kodesh/video-shiur/", "/kodesh/zmanim/", "/assets/site.css?v=39e81fea", "/assets/kelim.css?v=95dad8f3", "/assets/kelim.js?v=394730c7", "/assets/track.js?v=963b507e", "/assets/fonts/FrankRuhlLibre-wght.woff", "/assets/fonts/Assistant-wght.woff", "/assets/icon-kodesh-192.png"];
 self.addEventListener('install', function (e) {
   e.waitUntil(caches.open(CACHE).then(function (c) { return c.addAll(PRECACHE); }).catch(function () {}).then(function () { return self.skipWaiting(); }));

diff --git a/kelim/index.html b/kelim/index.html
@@ -97,7 +97,7 @@
   <a class="mv-star" href="/kelim/tamlul/" data-mv="tamlul">
     <span class="ic" aria-hidden="true">🎙</span>
     <span><span class="tag">הכלי הראשון</span><b>תמלול בעברית, מהטלפון</b>
-    <p>מעלים הקלטה, הודעה קולית או סרטון, או מקליטים ישר בדף, ומקבלים טקסט להעתקה, לקובץ או לווטסאפ. 60 דקות בחודש בחינם לכל אחד. לנכי צה"ל: ללא הגבלה.</p>
+    <p>מעלים הקלטה, הודעה קולית או סרטון, או מקליטים ישר בדף, ומקבלים טקסט להעתקה, לקובץ או לווטסאפ. בחינם ובלי הגבלה, לכל אחד.</p>
     <span class="mv-go">לתמלל עכשיו ←</span></span>
   </a>
   <a class="mv-star" href="/kelim/machshev/fax/" data-mv="fax">
@@ -200,7 +200,7 @@
       <li>פותחים את ביט או פייבוקס, "העברה", ומדביקים את המספר.</li>
       <li>אפשר לכתוב בהערה "לכלים", כדי שאדע ואודה לכם.</li>
       <li>גם 18 ש"ח בחודש מחזיקים הרבה דקות תמלול לאנשים שצריכים.</li>
-      <li>שותפים במיזם מקבלים ממני קוד שותף אישי: ללא הגבלה בכל הכלים שיש בהם מכסה יומית (תמלול, קריוקי, העוזרים החכמים והפותר).</li>
+      <li>שותפים במיזם מקבלים ממני קוד שותף אישי: ללא הגבלה בכל הכלים שיש בהם מכסה יומית (קריוקי, העוזרים החכמים והפותר).</li>
     </ul>
   </div>
 </section>

diff --git a/src/pages/kelim/index.html b/src/pages/kelim/index.html
@@ -41,7 +41,7 @@
   <a class="mv-star" href="/kelim/tamlul/" data-mv="tamlul">
     <span class="ic" aria-hidden="true">🎙</span>
     <span><span class="tag">הכלי הראשון</span><b>תמלול בעברית, מהטלפון</b>
-    <p>מעלים הקלטה, הודעה קולית או סרטון, או מקליטים ישר בדף, ומקבלים טקסט להעתקה, לקובץ או לווטסאפ. 60 דקות בחודש בחינם לכל אחד. לנכי צה"ל: ללא הגבלה.</p>
+    <p>מעלים הקלטה, הודעה קולית או סרטון, או מקליטים ישר בדף, ומקבלים טקסט להעתקה, לקובץ או לווטסאפ. בחינם ובלי הגבלה, לכל אחד.</p>
     <span class="mv-go">לתמלל עכשיו ←</span></span>
   </a>
   <a class="mv-star" href="/kelim/machshev/fax/" data-mv="fax">
@@ -144,7 +144,7 @@
       <li>פותחים את ביט או פייבוקס, "העברה", ומדביקים את המספר.</li>
       <li>אפשר לכתוב בהערה "לכלים", כדי שאדע ואודה לכם.</li>
       <li>גם 18 ש"ח בחודש מחזיקים הרבה דקות תמלול לאנשים שצריכים.</li>
-      <li>שותפים במיזם מקבלים ממני קוד שותף אישי: ללא הגבלה בכל הכלים שיש בהם מכסה יומית (תמלול, קריוקי, העוזרים החכמים והפותר).</li>
+      <li>שותפים במיזם מקבלים ממני קוד שותף אישי: ללא הגבלה בכל הכלים שיש בהם מכסה יומית (קריוקי, העוזרים החכמים והפותר).</li>
     </ul>
   </div>
 </section>

diff --git a/limudim/sw.js b/limudim/sw.js
@@ -1,7 +1,7 @@
 // service worker של תת-אתר בהכלים של גילעד רחמים (נוצר ע"י build.py, לא לערוך את העותק בתיקיית האתר).
 // דפים: קודם רשת, ואם אין אינטרנט – מהשמור. קבצים קבועים (css/js/גופנים): קודם שמור.
 // בקשות לשרתים אחרים (התמלול, גוגל) לא נוגעים בהן.
-var CACHE = 'limudim-202611112342';
+var CACHE = 'limudim-202611112354';
 var PRECACHE = ["/limudim/batei-sefer/", "/limudim/dapim/", "/limudim/ilui/", "/limudim/", "/limudim/kahoot/", "/limudim/kartisiot/", "/limudim/krav/", "/limudim/krav-anglit/", "/limudim/kvutza/", "/limudim/machberet/", "/limudim/machberet/kita/", "/limudim/machshevon/", "/limudim/maslul/", "/limudim/matematika/", "/limudim/mivchan/", "/limudim/olami/", "/limudim/poter/", "/limudim/timer/", "/limudim/yomi/", "/assets/site.css?v=39e81fea", "/assets/kelim.css?v=95dad8f3", "/assets/kelim.js?v=394730c7", "/assets/track.js?v=963b507e", "/assets/fonts/FrankRuhlLibre-wght.woff", "/assets/fonts/Assistant-wght.woff", "/assets/icon-limudim-192.png", "/assets/limudim.css?v=b9223dd1", "/assets/limudim.js?v=b71ff230"];
 self.addEventListener('install', function (e) {
   e.waitUntil(caches.open(CACHE).then(function (c) { return c.addAll(PRECACHE); }).catch(function () {}).then(function () { return self.skipWaiting(); }));

diff --git a/kesef/sw.js b/kesef/sw.js
@@ -1,7 +1,7 @@
 // service worker של תת-אתר בהכלים של גילעד רחמים (נוצר ע"י build.py, לא לערוך את העותק בתיקיית האתר).
 // דפים: קודם רשת, ואם אין אינטרנט – מהשמור. קבצים קבועים (css/js/גופנים): קודם שמור.
 // בקשות לשרתים אחרים (התמלול, גוגל) לא נוגעים בהן.
-var CACHE = 'kesef-202611112342';
+var CACHE = 'kesef-202611112354';
 var PRECACHE = ["/kesef/achuzim/", "/kesef/ashrai/", "/kesef/halvaa/", "/kesef/hechzer/", "/kesef/", "/kesef/kranot/", "/kesef/maam/", "/kesef/mechir/", "/kesef/minuyim/", "/kesef/mismachim/", "/kesef/mivtza/", "/kesef/ribit-dribit/", "/kesef/shana/", "/kesef/taktziv/", "/kesef/tlush/", "/kesef/yeladim/", "/assets/site.css?v=39e81fea", "/assets/kelim.css?v=95dad8f3", "/assets/kelim.js?v=394730c7", "/assets/track.js?v=963b507e", "/assets/fonts/FrankRuhlLibre-wght.woff", "/assets/fonts/Assistant-wght.woff", "/assets/icon-kesef-192.png", "/assets/kesef.css?v=b790a201", "/assets/kesef.js?v=27f16432"];
 self.addEventListener('install', function (e) {
   e.waitUntil(caches.open(CACHE).then(function (c) { return c.addAll(PRECACHE); }).catch(function () {}).then(function () { return self.skipWaiting(); }));

diff --git a/nefesh/sw.js b/nefesh/sw.js
@@ -1,7 +1,7 @@
 // service worker של תת-אתר בהכלים של גילעד רחמים (נוצר ע"י build.py, לא לערוך את העותק בתיקיית האתר).
 // דפים: קודם רשת, ואם אין אינטרנט – מהשמור. קבצים קבועים (css/js/גופנים): קודם שמור.
 // בקשות לשרתים אחרים (התמלול, גוגל) לא נוגעים בהן.
-var CACHE = 'nefesh-202611112342';
+var CACHE = 'nefesh-202611112354';
 var PRECACHE = ["/nefesh/hayom/", "/nefesh/", "/nefesh/koach/", "/nefesh/michtav/", "/nefesh/mishpacha/", "/nefesh/rega/", "/nefesh/tmicha/", "/nefesh/yoman/", "/assets/site.css?v=39e81fea", "/assets/kelim.css?v=95dad8f3", "/assets/kelim.js?v=394730c7", "/assets/track.js?v=963b507e", "/assets/fonts/FrankRuhlLibre-wght.woff", "/assets/fonts/Assistant-wght.woff", "/assets/icon-nefesh-192.png", "/assets/nefesh.css?v=21cf25b4", "/assets/nefesh.js?v=bb3ac2d0"];
 self.addEventListener('install', function (e) {
   e.waitUntil(caches.open(CACHE).then(function (c) { return c.addAll(PRECACHE); }).catch(function () {}).then(function () { return self.skipWaiting(); }));
